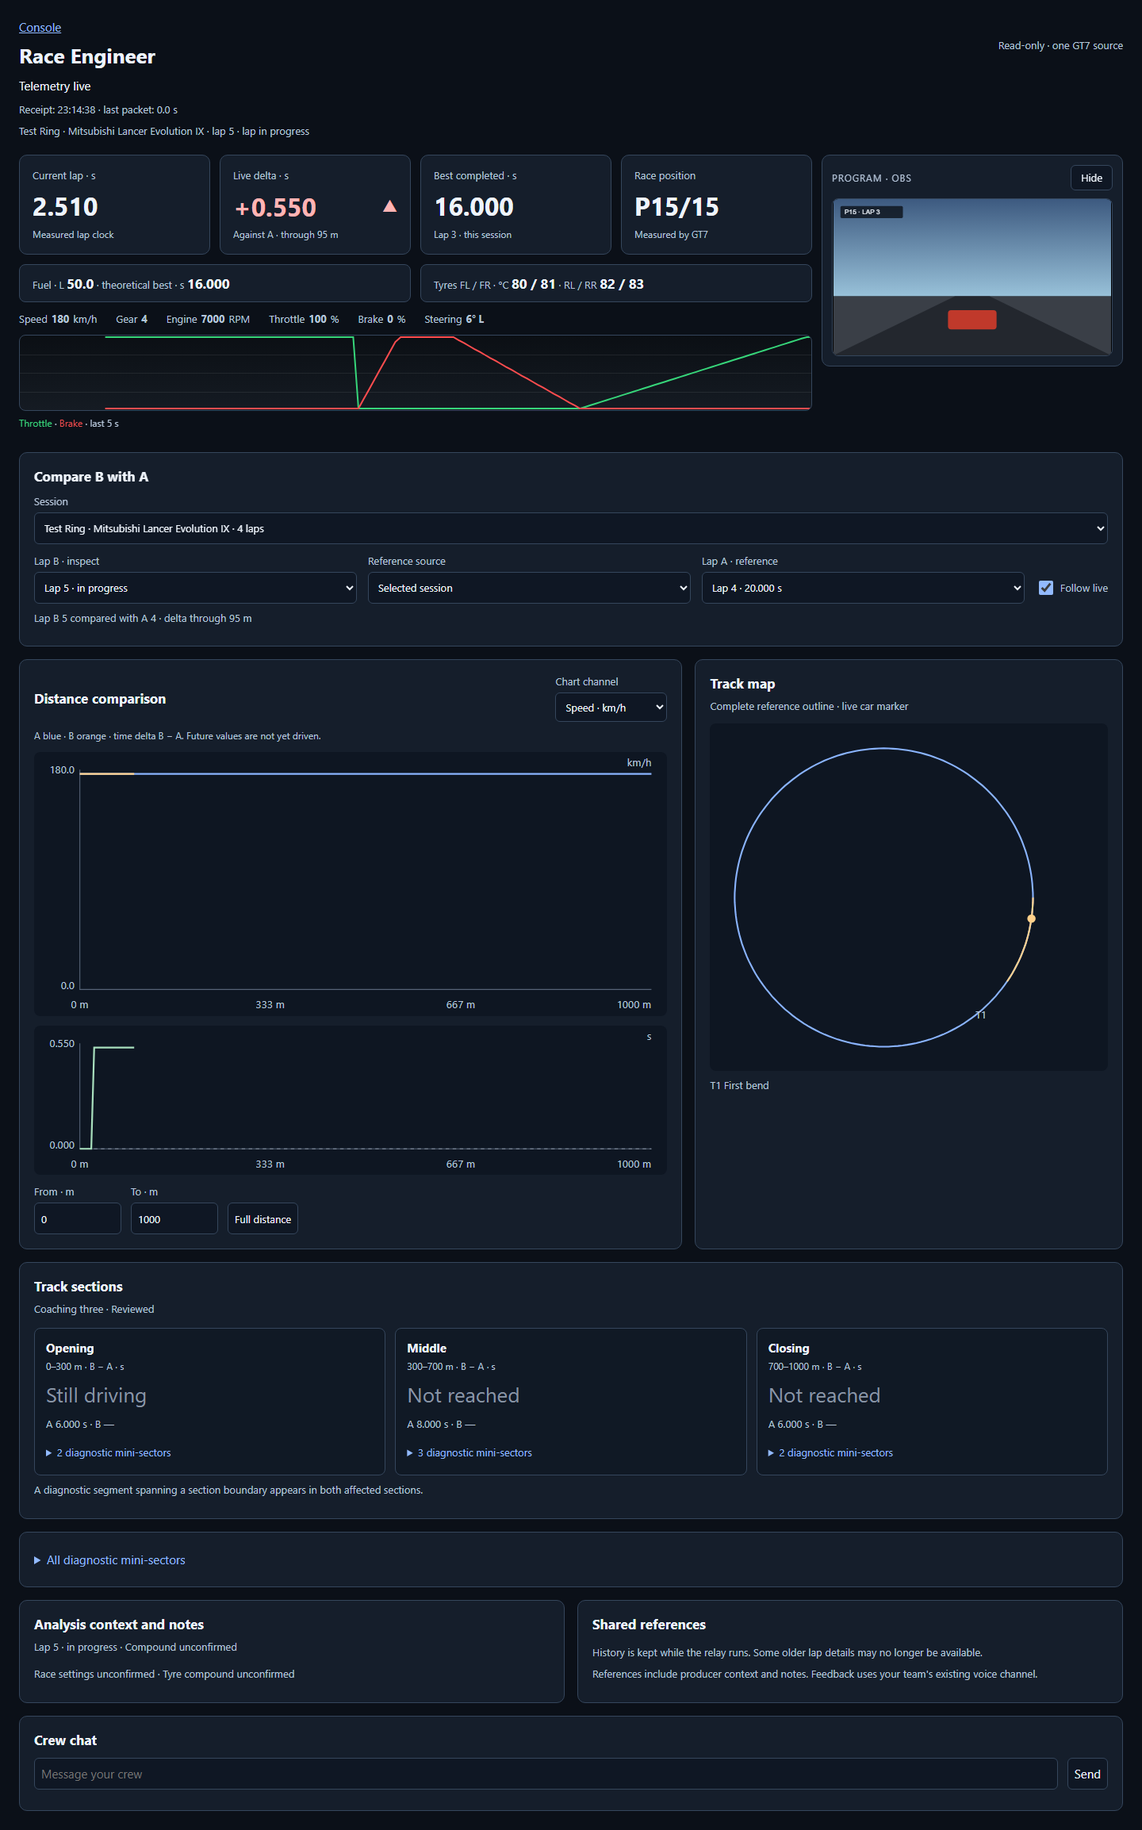
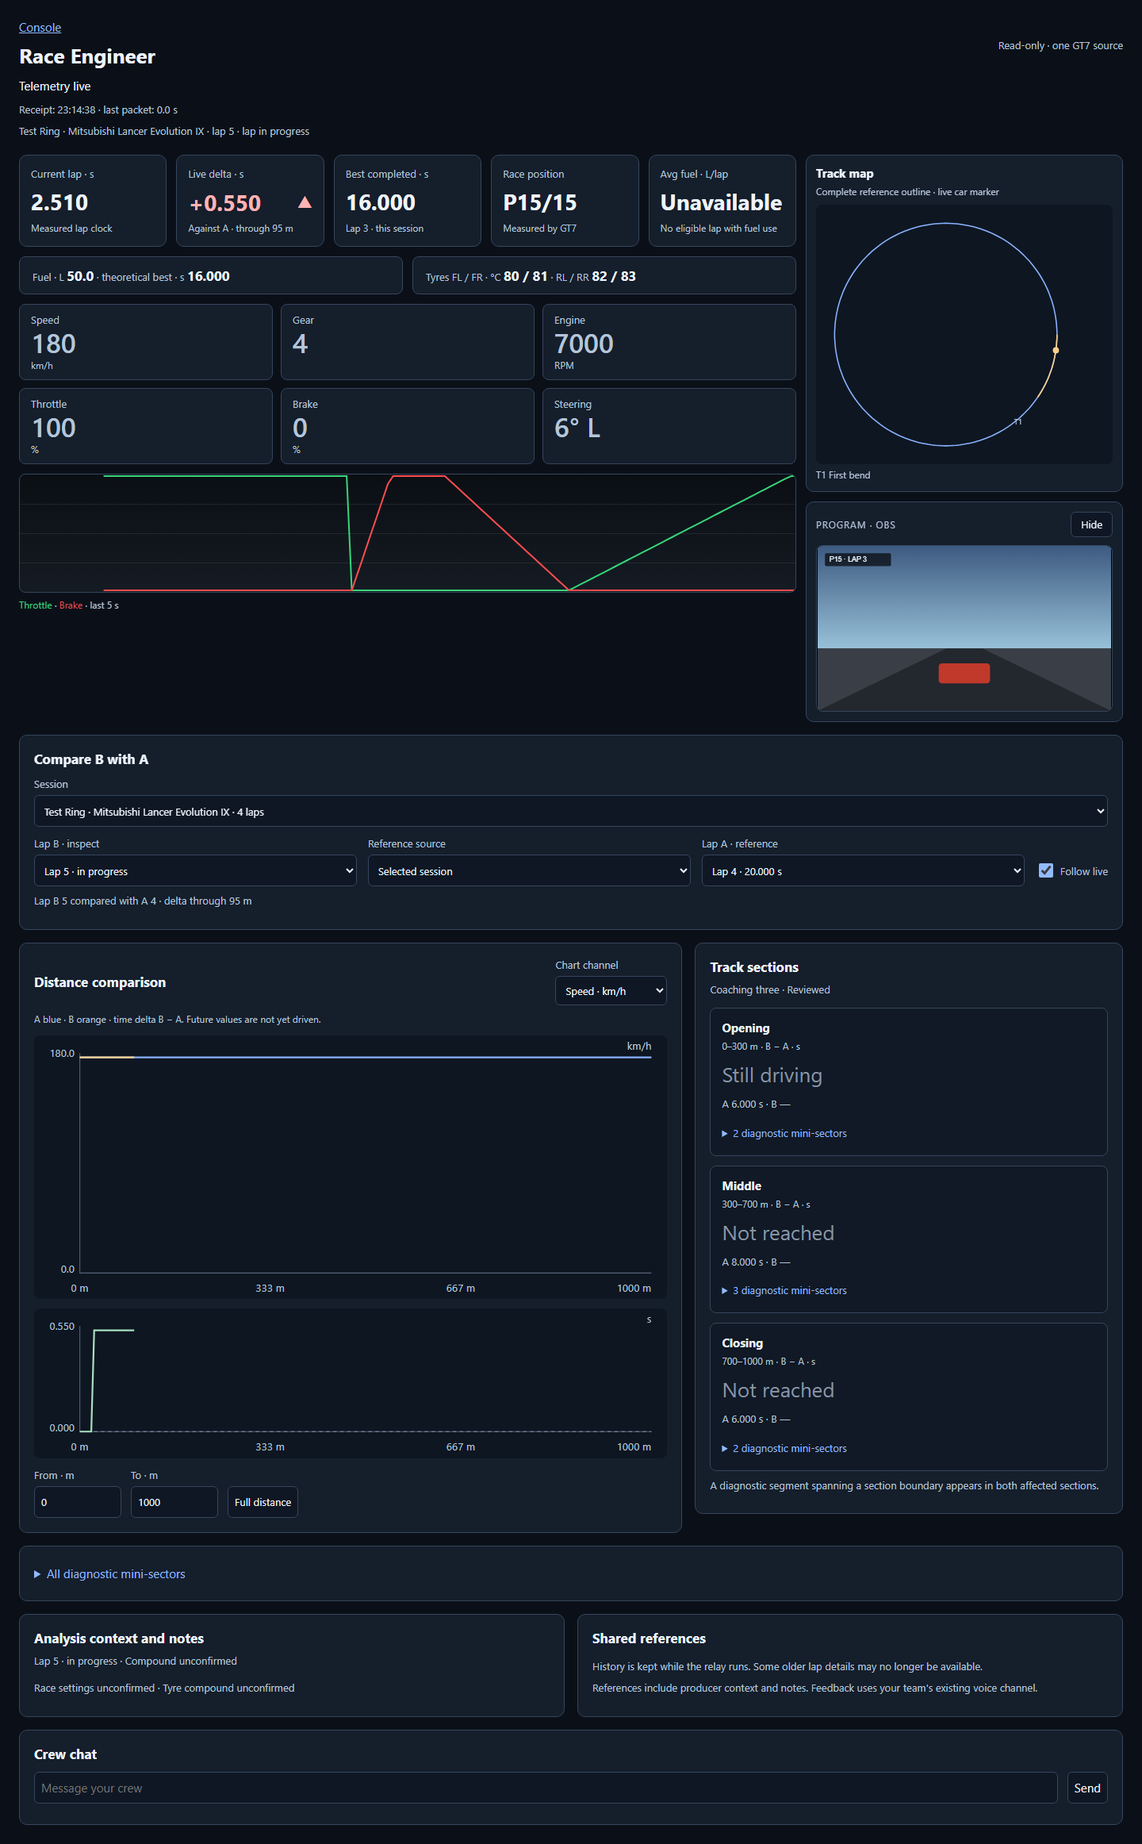
feat(console): Engineer desk layout with track map up top and average fuel per lap
The live area now carries the track map with the live car marker in a
right-hand column, the OBS program still below it. Speed, gear, RPM,
throttle, brake and steering become a large 3x2 grid, and a new headline
tile shows the average fuel per lap over the session's completed eligible
laps with its lap count. Track sections move beside the distance chart so
the chart keeps its proportions.

Closes #901

diff --git a/src/console/race-engineer.html b/src/console/race-engineer.html
@@ -6,6 +6,11 @@
 @media(max-width:600px){main{padding:12px}header{align-items:start;flex-wrap:wrap;gap:8px}h1{font-size:23px}.headline{grid-template-columns:1fr 1fr;gap:8px;margin-top:14px}.headline .tile>span{min-height:2.4em;line-height:1.2}.tile strong{font-size:28px}.tile{padding:12px}.support{grid-template-columns:1fr;gap:8px}.inputs{gap:12px;font-size:12px}.card{padding:12px}.compare{grid-template-columns:1fr;gap:10px}.check{grid-column:auto}.plots,.context{grid-template-columns:1fr}.section-row{grid-template-columns:1fr}.plot-head{flex-wrap:nowrap}.plot-head select{max-width:135px}.section details{margin-top:8px}summary{padding:14px 0;min-height:44px}.check{min-height:44px}.zoom label{width:82px}.zoom{gap:8px}.zoom button{flex:1;padding:6px}.chat{flex-wrap:wrap}.chat input{width:100%}}
 
 [hidden]{display:none!important}.dim{opacity:.6}.value strong{font-variant-numeric:tabular-nums}.not-driven{color:#8995a5;font-weight:400}.support strong{font-size:17px}.scroll{overflow-x:auto}.source-row{margin:12px 0}.source-row select{width:100%}#notice:empty,#new-laps:empty,#larger-sectors:empty{display:none}.live-grid{display:grid;grid-template-columns:minmax(0,1fr) minmax(280px,380px);gap:12px;margin-top:20px;align-items:start}.live-grid:has(.program-card.off){grid-template-columns:minmax(0,1fr) auto}.live-grid .headline{margin-top:0}.program-card{padding:12px}.delta-tile{display:grid;grid-template-columns:minmax(0,1fr) auto;column-gap:8px;align-items:center}.delta-tile>span{grid-row:1;grid-column:1/-1}.delta-tile>strong{grid-row:2;grid-column:1}.delta-tile>small{grid-row:3;grid-column:1/-1}.trend{grid-row:2;grid-column:2;font-size:22px;line-height:1}.trend.up{color:var(--bad)}.trend.down{color:var(--good)}.trace-box{margin:0 0 12px}.trace-box canvas{display:block;width:100%;height:96px;background:linear-gradient(#0b0f14,#151b23);border:1px solid var(--edge);border-radius:8px}.trace-box .legend{margin:6px 0 0;font-size:12px;color:var(--muted)}.trace-box .thr{color:#37d67a}.trace-box .brk{color:#ff4d4f}.program-head{display:flex;justify-content:space-between;align-items:center;gap:10px}.tile .program-head span{font-size:12px;letter-spacing:.08em;text-transform:uppercase}.program-head button{min-height:32px;padding:4px 12px;font-size:13px}.program-frame{position:relative;margin-top:10px;aspect-ratio:16/9;background:#000;border:1px solid var(--edge);border-radius:8px;overflow:hidden;display:flex;align-items:center;justify-content:center}.program-frame img{width:100%;height:100%;object-fit:contain;display:none}.program-frame.loaded img{display:block}.tile .program-frame span{font-size:12px}.program-frame.loaded span{display:none}.program-card.off .program-frame{display:none}@media(max-width:1100px){.live-grid,.live-grid:has(.program-card.off){grid-template-columns:minmax(0,1fr)}.program-card{max-width:520px}}@media(max-width:600px){.live-grid{margin-top:14px}.program-card{max-width:none}}#notes{padding-left:18px}#references{padding-left:18px}#chatlog{max-height:240px;overflow-y:auto}.inputs .value{display:flex;gap:5px;align-items:center}.mini-details{margin-top:16px}.section table{font-size:12px}.section header{display:block}.section h3{font-size:15px;margin:0}.section .section-delta{display:block;font-size:26px;margin:10px 0}.section small{font-size:12px;color:var(--muted)}
+.live-grid,.live-grid:has(.program-card.off){grid-template-columns:minmax(0,1fr) minmax(300px,400px)}.headline{grid-template-columns:repeat(5,minmax(0,1fr))}.headline .tile{padding:14px}.headline .tile strong{font-size:28px}
+.inputs{display:grid;grid-template-columns:repeat(3,minmax(0,1fr));gap:10px;margin:12px 0}.inputs .value{display:flex;flex-direction:column;align-items:flex-start;gap:2px;border:1px solid var(--edge);border-radius:8px;background:var(--panel);padding:10px 14px}.inputs .value>span{font-size:13px;color:var(--muted)}.inputs .value strong{font-size:34px;line-height:1.1;font-weight:600;overflow-wrap:anywhere}.inputs .value small{font-size:12px;color:var(--muted)}
+.live-side{display:flex;flex-direction:column;gap:12px;min-width:0}.map-card{padding:12px}.map-card h2{font-size:15px}.map-card .sub{margin:4px 0 0;font-size:12px}.map-card svg{margin-top:8px}.plots{grid-template-columns:minmax(0,1.55fr) minmax(0,1fr);align-items:start}.plots #larger-sectors .section-row{grid-template-columns:minmax(0,1fr)}.trace-box canvas{height:150px}
+@media(max-width:1100px){.live-grid,.live-grid:has(.program-card.off){grid-template-columns:minmax(0,1fr)}.plots{grid-template-columns:minmax(0,1fr)}.plots #larger-sectors .section-row{grid-template-columns:repeat(3,minmax(0,1fr))}.headline{grid-template-columns:repeat(3,minmax(0,1fr))}.live-side{display:grid;grid-template-columns:minmax(0,1fr) minmax(0,1fr);align-items:start}.inputs .value strong{font-size:28px}}
+@media(max-width:600px){.trace-box canvas{height:110px}.plots #larger-sectors .section-row{grid-template-columns:minmax(0,1fr)}.headline{grid-template-columns:1fr 1fr}.live-side{grid-template-columns:minmax(0,1fr)}.inputs{gap:8px}.inputs .value{padding:8px 10px}.inputs .value strong{font-size:22px}}
 </style><script>window.RC_API_BASE="__RC_API_BASE__";window.RC_API=p=>(window.RC_API_BASE||'')+p;if(location.search)history.replaceState({},'',location.pathname);</script></head><body><main>
 <header><div><a href="/console">Console</a><h1>Race Engineer</h1></div><span class="sub">Read-only · one GT7 source</span></header>
 <p id="status" role="status">Checking access…</p><p id="receipt" class="sub">Waiting for measured telemetry</p><p id="notice" role="status"></p>
@@ -18,12 +23,14 @@
 <div class="tile value delta-tile"><span>Live delta · s</span><b id="delta-trend" class="trend" role="img" aria-label="No trend"></b><strong id="delta">Unavailable</strong><small id="delta-note">Against the selected reference</small></div>
 <div class="tile value"><span>Best completed · s</span><strong id="best">Unavailable</strong><small id="best-note">Eligible completed laps</small></div>
 <div class="tile value"><span>Race position</span><strong id="race-position">Unavailable</strong><small>Measured by GT7</small></div>
+<div class="tile value"><span>Avg fuel · L/lap</span><strong id="fuel-avg">Unavailable</strong><small id="fuel-avg-note">No eligible lap with fuel use</small></div>
 </div>
 <div class="support"><div class="value"><span class="sub">Fuel · L </span><strong id="fuel">Unavailable</strong><span class="sub"> · theoretical best · s </span><strong id="theory">Unavailable</strong></div><div class="value"><span class="sub">Tyres FL / FR · °C </span><strong id="tyres-front">Unavailable</strong><span class="sub"> · RL / RR </span><strong id="tyres-rear">Unavailable</strong></div></div>
 
-<div class="inputs"><span class="value">Speed <strong id="speed">Unavailable</strong><span data-unit-for="speed">km/h</span></span><span class="value">Gear <strong id="gear">Unavailable</strong></span><span class="value">Engine <strong id="rpm">Unavailable</strong><span data-unit-for="rpm">RPM</span></span><span class="value">Throttle <strong id="throttle">Unavailable</strong><span data-unit-for="throttle">%</span></span><span class="value">Brake <strong id="brake">Unavailable</strong><span data-unit-for="brake">%</span></span><span class="value">Steering <strong id="steer">Unavailable</strong></span></div>
+<div class="inputs"><div class="value"><span>Speed</span><strong id="speed">Unavailable</strong><small data-unit-for="speed">km/h</small></div><div class="value"><span>Gear</span><strong id="gear">Unavailable</strong></div><div class="value"><span>Engine</span><strong id="rpm">Unavailable</strong><small data-unit-for="rpm">RPM</small></div><div class="value"><span>Throttle</span><strong id="throttle">Unavailable</strong><small data-unit-for="throttle">%</small></div><div class="value"><span>Brake</span><strong id="brake">Unavailable</strong><small data-unit-for="brake">%</small></div><div class="value"><span>Steering</span><strong id="steer">Unavailable</strong></div></div>
 <div class="trace-box"><canvas id="input-trace" role="img" aria-label="Throttle and brake trace, last 5 seconds"></canvas><p class="legend"><span class="thr">Throttle</span> · <span class="brk">Brake</span> · <span id="trace-note">Waiting for input samples</span></p></div>
-</div><aside id="program-card" class="tile program-card" aria-label="Program output"><div class="program-head"><span>Program · OBS</span><button id="program-toggle" type="button" aria-controls="program-frame" aria-expanded="true">Hide</button></div><div id="program-frame" class="program-frame"><img id="program" alt="Program output still"><span id="program-note">Loading program</span></div></aside></div>
+</div><div id="live-side" class="live-side"><section class="tile map-card" aria-label="Track map"><h2>Track map</h2><p class="sub">Complete reference outline · live car marker</p><svg id="map" viewBox="0 0 480 420" aria-label="Measured lap track map" role="img"></svg><p id="map-turns" class="sub"></p></section>
+<aside id="program-card" class="tile program-card" aria-label="Program output"><div class="program-head"><span>Program · OBS</span><button id="program-toggle" type="button" aria-controls="program-frame" aria-expanded="true">Hide</button></div><div id="program-frame" class="program-frame"><img id="program" alt="Program output still"><span id="program-note">Loading program</span></div></aside></div></div>
 </section>
 <section class="card"><h2>Compare B with A</h2><div class="source-row"><label>Session<select id="session"></select></label></div><div class="compare">
 <label>Lap B · inspect<select id="lap-b"></select></label><label>Reference source<select id="reference-source"><option value="">Selected session</option></select></label><label>Lap A · reference<select id="lap-a"></select></label><label class="check"><input id="follow" type="checkbox" checked>Follow live</label>
@@ -32,9 +39,8 @@
 <section class="card plot-card"><div class="plot-head"><h2>Distance comparison</h2><label>Chart channel<select id="channel"><option value="speed_kmh">Speed · km/h</option><option value="throttle">Throttle · %</option><option value="brake">Brake · %</option><option value="steer_deg">Steering · degrees</option><option value="gear">Gear</option></select></label></div><p class="legend">A blue · B orange · time delta B − A. Future values are not yet driven.</p>
 <svg id="chart" viewBox="0 0 720 300" aria-label="Telemetry chart" role="img"></svg><svg id="delta-chart" viewBox="0 0 720 170" aria-label="Time delta chart" role="img"></svg>
 <div class="zoom"><label>From · m<input id="zoom-from" type="number" min="0" value="0"></label><label>To · m<input id="zoom-to" type="number" min="1" value="1000"></label><button id="zoom-reset" type="button">Full distance</button></div></section>
-<section class="card plot-card"><h2>Track map</h2><p class="sub">Complete reference outline · live car marker</p><svg id="map" viewBox="0 0 480 420" aria-label="Measured lap track map" role="img"></svg><p id="map-turns" class="sub"></p></section>
-</div>
 <section class="card" id="larger-sectors"></section>
+</div>
 <details class="card mini-details"><summary>All diagnostic mini-sectors</summary><p class="sub">200 m segments; a short final segment is grouped with its predecessor. Future sectors are not yet driven.</p><div class="scroll"><table id="sectors"><thead><tr><th>Sector</th><th>A · s</th><th>B · s</th><th>B − A · s</th></tr></thead><tbody></tbody></table></div></details>
 </div>
 <div id="context-grid" class="context"><section class="card"><h2>Analysis context and notes</h2><p id="context" class="sub">No selected lap</p><ul id="notes"></ul><p id="limitations" class="sub"></p></section><section class="card"><h2>Shared references</h2><ul id="references"></ul><p id="history-state" class="sub"></p><p class="sub">References include producer context and notes. Feedback uses your team's existing voice channel.</p></section></div>
@@ -101,6 +107,7 @@ function selections(){
  $('follow').checked=state.follow;$('new-laps').textContent=state.newLaps?`${state.newLaps} newly completed lap${state.newLaps===1?'':'s'}`:'';
 }
 function instruments(snap){const v=snap.instruments||{};$('race-position').textContent=v.race_position!=null&&v.car_count!=null?`P${v.race_position}/${v.car_count}`:'Unavailable';for(const [id,value,d] of [['speed',v.speed_kmh,0],['gear',v.gear,0],['rpm',v.rpm,0],['throttle',v.throttle,0],['brake',v.brake,0],['fuel',v.fuel_l,1],['lap-time',snap.current?.elapsed_s,3],['best',snap.best_s,3],['theory',snap.theoretical_s,3]])$(id).textContent=num(value,d);
+ $('fuel-avg').textContent=num(snap.fuel_avg_l,2);$('fuel-avg-note').textContent=snap.fuel_avg_laps?`${snap.fuel_avg_laps} eligible lap${snap.fuel_avg_laps===1?'':'s'} · this session`:'No eligible lap with fuel use';
  for(const id of ['lap-time','best','theory'])$(id).classList.remove('not-driven');if(snap.current?.lap<=0){$('lap-time').textContent='Out lap';$('lap-time').classList.add('not-driven');}if(snap.current&&!state.laps.some(r=>r.session_id===snap.current.session_id&&r.comparison_eligible)){for(const [id,value]of [['best',snap.best_s],['theory',snap.theoretical_s]])if(value==null){$(id).textContent='No eligible lap';$(id).classList.add('not-driven');}}
  const bestLap=snap.best_s==null?null:state.laps.find(r=>r.session_id===snap.session_id&&r.comparison_eligible&&r.state==='confirmed'&&r.time_s===snap.best_s);$('best-note').textContent=bestLap?`Lap ${bestLap.lap} · this session`:'Eligible completed laps';
  const steer=Number.isFinite(v.steer_rad)?v.steer_rad*180/Math.PI:null;$('steer').textContent=steer==null?'Unavailable':Math.abs(steer)<.5?'0°':`${Math.abs(steer).toFixed(0)}° ${steer>0?'L':'R'}`;

diff --git a/src/scripts/race_engineer_live.py b/src/scripts/race_engineer_live.py
@@ -141,6 +141,16 @@ def _finite(value):
     return value if isinstance(value, (int, float)) and math.isfinite(value) else None
 
 
+def fuel_average(laps, session_id):
+    """(mean litres per lap, lap count) over the live session's completed eligible laps.
+    A missing or zero use is no measurement (no fuel use / refuel), never a zero average."""
+    used = [r["fuel_used_l"] for r in laps
+            if session_id is not None and r.get("session_id") == session_id
+            and r.get("state") == "confirmed" and r.get("comparison_eligible")
+            and _finite(r.get("fuel_used_l")) is not None and r["fuel_used_l"] > 0]
+    return (round(sum(used) / len(used), 3), len(used)) if used else (None, 0)
+
+
 def instruments(pkt):
     """Only measured channels; a missing/nonfinite channel stays unavailable."""
     x, z = _finite(pkt.pos_x), _finite(pkt.pos_z)
@@ -422,6 +432,8 @@ class Store:
             "sessions": [],
             "laps": [],
             "best_s": None,
+            "fuel_avg_l": None,
+            "fuel_avg_laps": 0,
             "theoretical_s": None,
             "history": (
                 "recording-backed"
@@ -849,6 +861,7 @@ class Store:
             and r["state"] == "confirmed"
             and gt7_context.compatible(current or {}, r)
         ]
+        fuel_avg, fuel_laps = fuel_average(self._summaries.values(), sid)
         doc.update(
             revision=self._revision,
             current=current,
@@ -858,6 +871,8 @@ class Store:
             sessions=list(self._sessions.values()),
             laps=list(self._summaries.values()),
             best_s=min((r["time_s"] for r in eligible), default=None),
+            fuel_avg_l=fuel_avg,
+            fuel_avg_laps=fuel_laps,
             theoretical_s=gt7_laps.theoretical_best(pool),
             warnings=[self._context_error] if self._context_error else [],
         )

diff --git a/tests/test_race_engineer_live.py b/tests/test_race_engineer_live.py
@@ -43,6 +43,18 @@ def t_confirmed_matches_offline_and_provisional_stays_observed():
             assert not current['pace_eligible']
             assert current['trace'][-1]['d'] <= current['distance_m']
             assert snap['best_s'] == 16.0
+            assert snap['fuel_avg_laps'] == 0 and snap['fuel_avg_l'] is None, 'zero-use laps are no fuel measurement'
+
+
+def t_average_fuel_uses_completed_eligible_laps_of_the_live_session():
+    def lap(n, fuel, sid='A', state='confirmed', eligible=True):
+        return {'lap': n, 'session_id': sid, 'state': state, 'comparison_eligible': eligible, 'fuel_used_l': fuel}
+    rows = [lap(1, 1.0, eligible=False),            # out lap
+            lap(2, 3.0), lap(3, 3.2), lap(4, None),  # missing measurement is not zero
+            lap(5, 2.9, state='unconfirmed'), lap(6, 9.0, sid='B'), lap(7, 0.0)]
+    assert live.fuel_average(rows, 'A') == (3.1, 2)
+    assert live.fuel_average(rows, None) == (None, 0)
+    assert live.fuel_average([lap(1, 3.0, eligible=False)], 'A') == (None, 0)
 
 
 def t_stale_pause_generation_and_collection_switch():

diff --git a/tests/test_engineer_live_trend.py b/tests/test_engineer_live_trend.py
@@ -114,6 +114,19 @@ console.log(seen.join('|'));""")
         assert out.strip() == "11° L|11° R|0°|Unavailable", out
 
 
+def t_average_fuel_shows_the_session_value_and_its_lap_count():
+    h = _html()
+    assert 'id="fuel-avg"' in h and h.index('id="instruments"') < h.index('id="fuel-avg"') < h.index('id="input-trace"')
+    out = _run_js(_HARNESS + _func_src(h, "instruments") + """
+const seen = [];
+for (const [avg, laps] of [[3.0612, 12], [null, 0]]) {
+  instruments({instruments: {}, fuel_avg_l: avg, fuel_avg_laps: laps});
+  seen.push($('fuel-avg').textContent + '/' + $('fuel-avg-note').textContent); }
+console.log(seen.join('|'));""")
+    if out is not None:
+        assert out.strip() == "3.06/12 eligible laps · this session|Unavailable/No eligible lap with fuel use", out
+
+
 def t_input_trace_sits_with_the_live_values_and_uses_the_gated_route():
     h = _html()
     i, steer, trace, pgm = (h.index('id="instruments"'), h.index('id="steer"'),

diff --git a/tests/test_engineer_program_still.py b/tests/test_engineer_program_still.py
@@ -36,6 +36,15 @@ def t_program_card_sits_beside_the_live_instruments():
     assert 'id="program-toggle"' in h and 'aria-controls="program-frame"' in h
 
 
+def t_track_map_leads_the_live_side_column_above_the_program():
+    h = _html()
+    trace, side, track, pgm, compare = (h.index('id="input-trace"'), h.index('id="live-side"'),
+                                        h.index('id="map"'), h.index('id="program-card"'),
+                                        h.index("Compare B with A"))
+    assert trace < side < track < pgm < compare, "map sits in the live area, the program below it"
+    assert track < h.index('id="plots"'), "the map left the comparison plots"
+
+
 def t_program_still_uses_the_any_tier_cockpit_endpoint():
     # /cockpit/program is open to every console role, the engineer included; the
     # director-only /preview/* routes are not.

diff --git a/src/docs/wiki/Race-Engineer.md b/src/docs/wiki/Race-Engineer.md
@@ -21,8 +21,11 @@ driven during replay are absent from the live pool. With recording enabled their
 details remain recoverable from the recording through the existing shared-reference
 workflow. Without recording, those laps are lost. The desk states this limitation.
 
-Current lap, live delta, best completed time and race position lead the desk.
-Fuel, theoretical best and tyres follow, with compact speed/gear/RPM/pedal values.
+Current lap, live delta, best completed time, race position and average fuel use lead
+the desk. **Avg fuel · L/lap** averages the completed, comparison-eligible laps of the
+live session (out, pit and partial laps excluded) and names how many laps it uses; a lap
+without a fuel reading is left out, never counted as zero. Fuel, theoretical best and
+tyres follow, then large speed/gear/RPM/throttle/brake/steering values.
 Select the comparison before inspecting the charts; channel and distance controls
 are attached to the chart. One line below the selection reports the comparison:
 the distance the delta covers, the lap time difference, or why none is shown yet.
@@ -32,7 +35,9 @@ HUD, an arrow next to the delta shows the trend over the last 1.5 s: **▲** the
 grows (losing time now), **▼** it shrinks (gaining time now). Changes below 0.02 s
 show no arrow, and a new reference or a new live lap starts the trend over.
 
-The **Program · OBS** tile beside the live values (below them on narrower screens) shows a still of the running OBS
+Beside the live values (below them on narrower screens) the **Track map** shows the
+complete reference outline with the live car marker, and the **Program · OBS** tile
+below it shows a still of the running OBS
 program, refreshed about every 1.5 s, the same still Race Control shows. **Hide**
 folds it to a small bar and the browser remembers the choice. The still is only
 fetched while the tile is open and the tab is visible, and it stops with the access.
